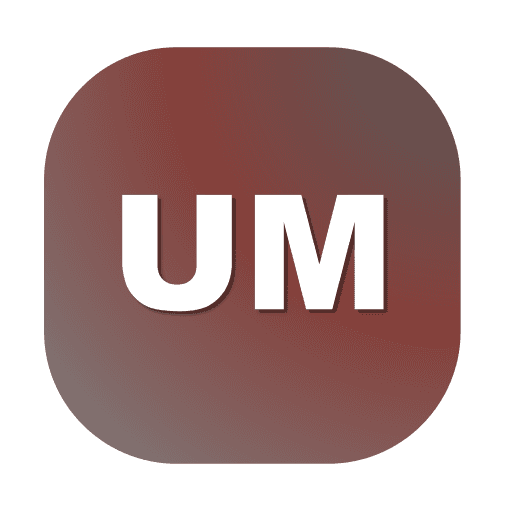
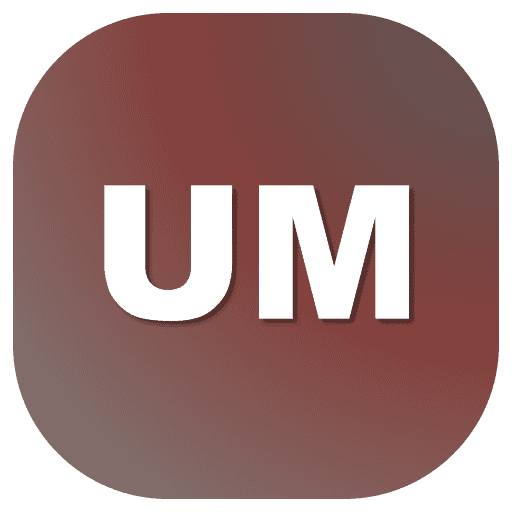
less padding, some ai to remove svg borders, blah

Changed region(s): [[0.0, 0.0, 1.0, 1.0], [0.1875, 0.3438, 0.8125, 0.6562]]

diff --git a/docs/sw.js b/docs/sw.js
@@ -1,1 +1,1 @@
-if(!self.define){let e,i={};const n=(n,s)=>(n=new URL(n+".js",s).href,i[n]||new Promise(i=>{if("document"in self){const e=document.createElement("script");e.src=n,e.onload=i,document.head.appendChild(e)}else e=n,importScripts(n),i()}).then(()=>{let e=i[n];if(!e)throw new Error(`Module ${n} didn’t register its module`);return e}));self.define=(s,r)=>{const o=e||("document"in self?document.currentScript.src:"")||location.href;if(i[o])return;let c={};const t=e=>n(e,o),d={module:{uri:o},exports:c,require:t};i[o]=Promise.all(s.map(e=>d[e]||t(e))).then(e=>(r(...e),c))}}define(["./workbox-8c29f6e4"],function(e){"use strict";self.skipWaiting(),e.clientsClaim(),e.precacheAndRoute([{url:"registerSW.js",revision:"cd0c2a1cac85bda645e5b95772d9dcad"},{url:"index.html",revision:"3c96ce09f694a7205548142627a6a5e3"},{url:"assets/index-CyjlftJc.css",revision:null},{url:"assets/index-BlSJJhhV.js",revision:null},{url:"favicon.ico",revision:"5c0a9fa2560b363ae9b4d0a72ed2f02e"},{url:"maskable-icon-512x512.png",revision:"329625b429a849e113f2b2cb18bb5821"},{url:"pwa-192x192.png",revision:"730704ef19d9386b6d9094c2d0b6cf72"},{url:"pwa-512x512.png",revision:"5ea6d92be2efeccc90d079e7b0c714b0"},{url:"pwa-64x64.png",revision:"32d31b55027d2ea0fa51aa36b30346a3"},{url:"manifest.webmanifest",revision:"5dfbb8fd3f9f25ef7024f24d216d779f"}],{}),e.cleanupOutdatedCaches(),e.registerRoute(new e.NavigationRoute(e.createHandlerBoundToURL("index.html")))});
+if(!self.define){let e,i={};const n=(n,s)=>(n=new URL(n+".js",s).href,i[n]||new Promise(i=>{if("document"in self){const e=document.createElement("script");e.src=n,e.onload=i,document.head.appendChild(e)}else e=n,importScripts(n),i()}).then(()=>{let e=i[n];if(!e)throw new Error(`Module ${n} didn’t register its module`);return e}));self.define=(s,r)=>{const f=e||("document"in self?document.currentScript.src:"")||location.href;if(i[f])return;let c={};const o=e=>n(e,f),t={module:{uri:f},exports:c,require:o};i[f]=Promise.all(s.map(e=>t[e]||o(e))).then(e=>(r(...e),c))}}define(["./workbox-8c29f6e4"],function(e){"use strict";self.skipWaiting(),e.clientsClaim(),e.precacheAndRoute([{url:"registerSW.js",revision:"cd0c2a1cac85bda645e5b95772d9dcad"},{url:"index.html",revision:"3c96ce09f694a7205548142627a6a5e3"},{url:"assets/index-CyjlftJc.css",revision:null},{url:"assets/index-BlSJJhhV.js",revision:null},{url:"favicon.ico",revision:"ee09aeff2447f7a3fce45f359a16c9b6"},{url:"maskable-icon-512x512.png",revision:"45183556cfde0e0b4aa17167023e418e"},{url:"pwa-192x192.png",revision:"7f7803ce3f7c42e79fb3c41529169c9b"},{url:"pwa-512x512.png",revision:"ebf6001fbe40bda8c20915ffd1dc6617"},{url:"pwa-64x64.png",revision:"2dab3f8059832f44f7e91d0b322b5e74"},{url:"manifest.webmanifest",revision:"5dfbb8fd3f9f25ef7024f24d216d779f"}],{}),e.cleanupOutdatedCaches(),e.registerRoute(new e.NavigationRoute(e.createHandlerBoundToURL("index.html")))});
